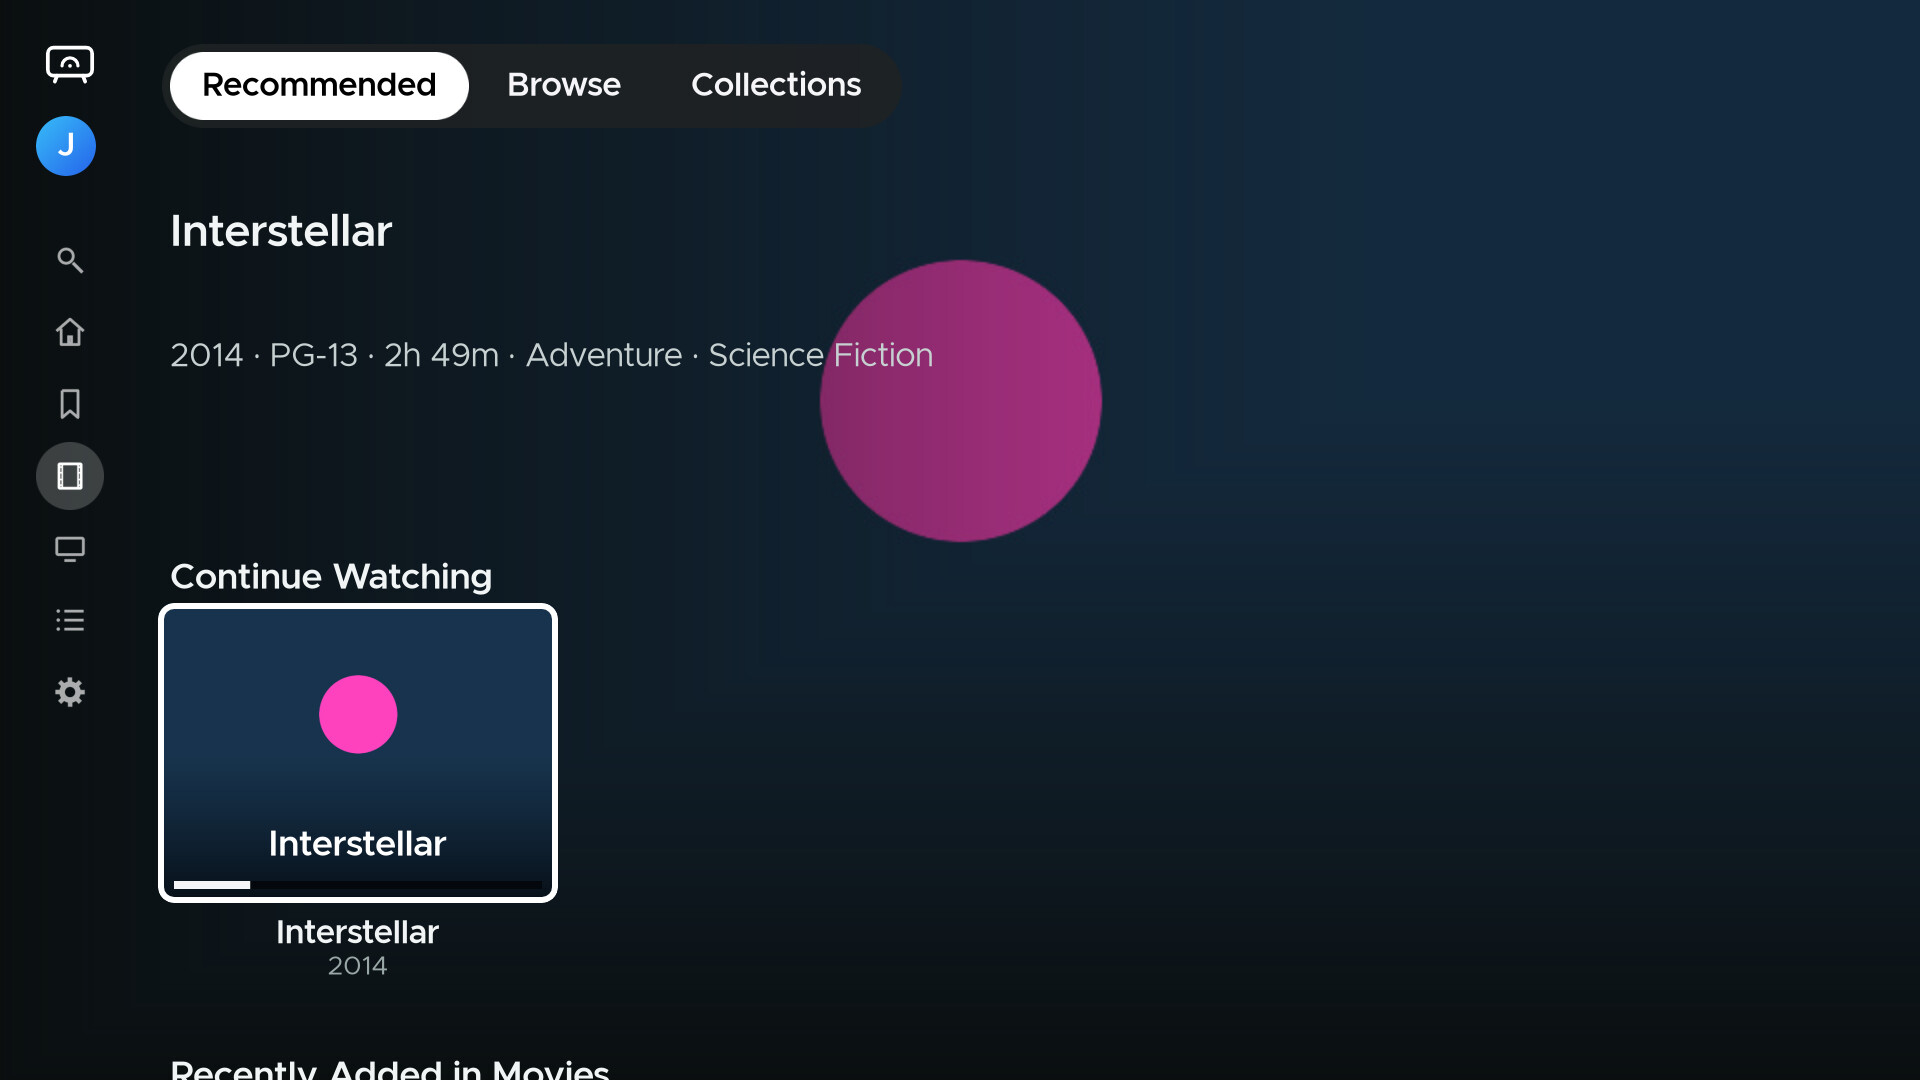
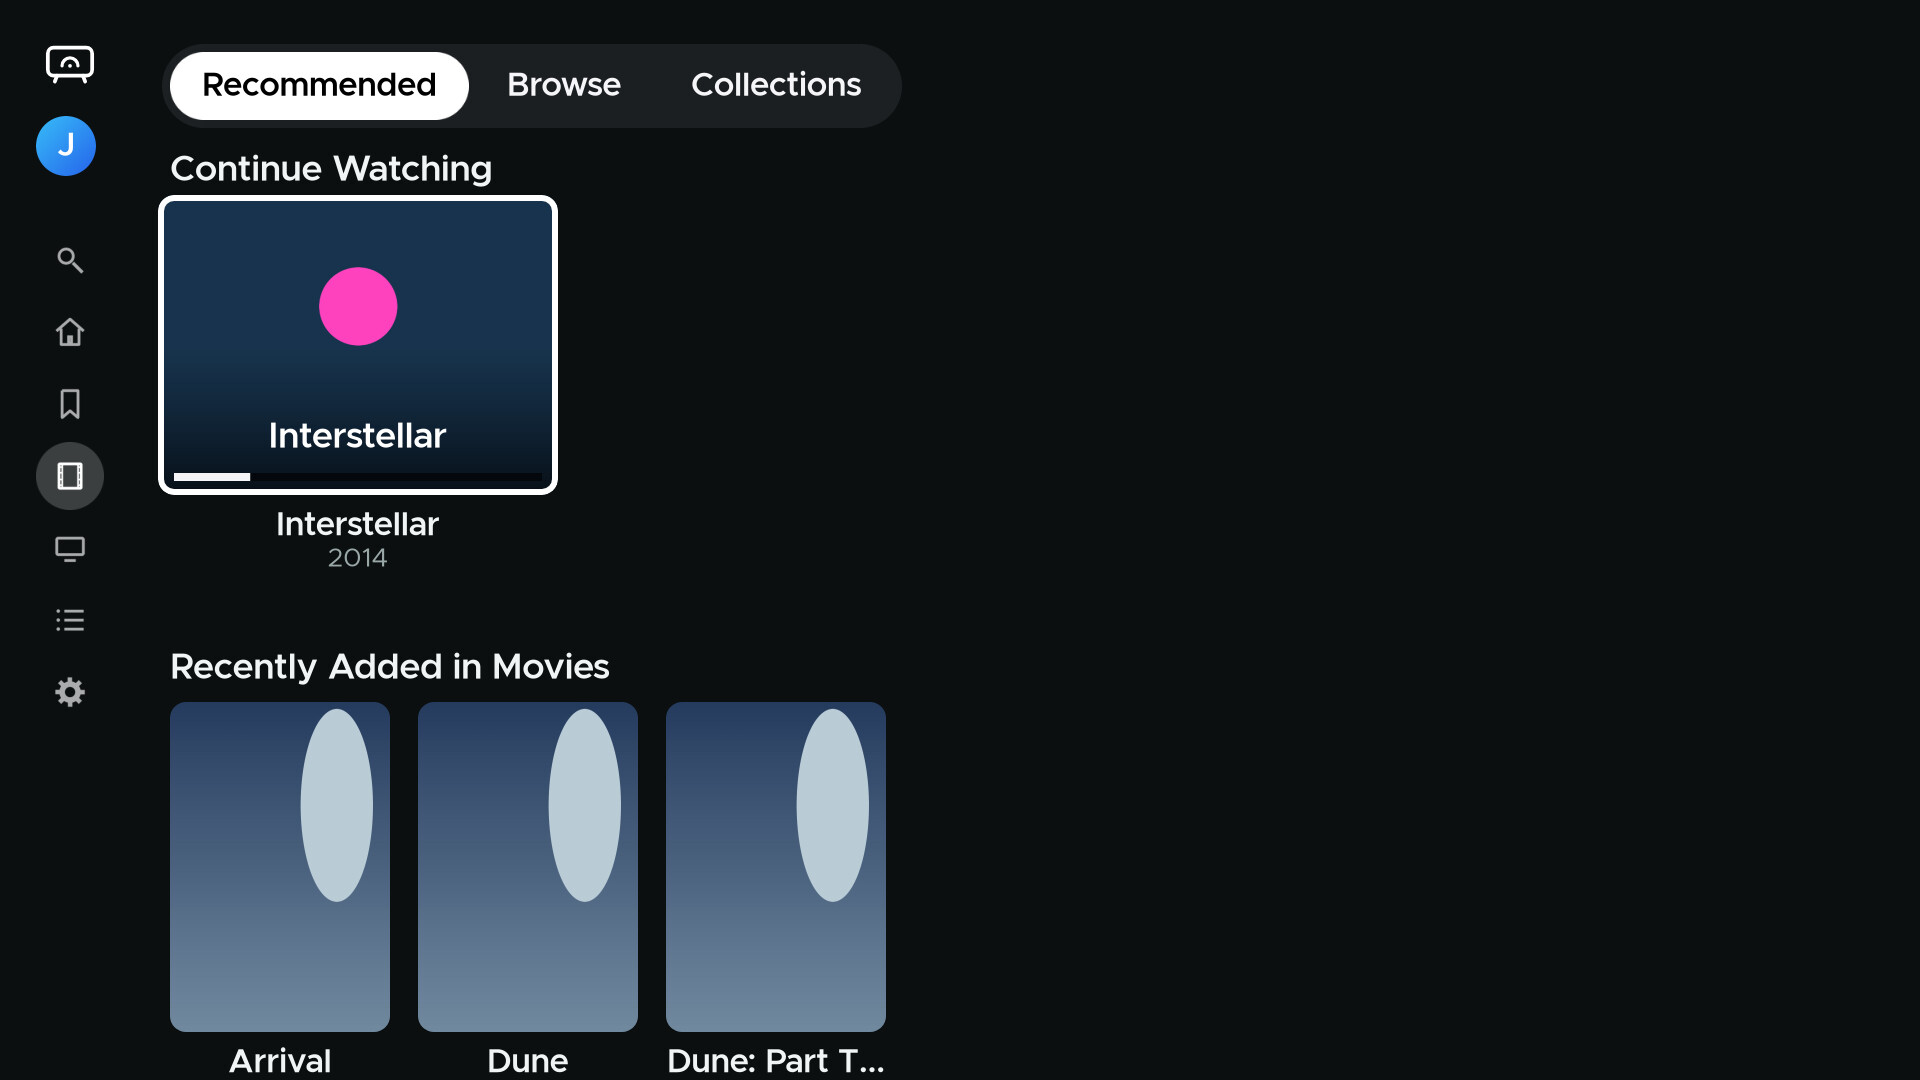
Make Roku Recommended rows-only
Start the shelves directly below the library tabs, matching Android TV, and keep the focus-following hero on Home.

diff --git a/docs/changes/2026-11-26-roku-layout-followup.md b/docs/changes/2026-11-26-roku-layout-followup.md
@@ -6,15 +6,12 @@
   the episode row. Up returns to the overview.
 - Draw the cast focus ring inside the portrait to keep the full circle inside the card slot.
 - Preserve the source aspect ratio in the 4:3 Backdrops style, with a centred crop.
-- Keep the Recommended hero on the first row. Scrolling down gives the shelves
-  the space below the library tabs, and returning to the first row restores the hero.
+- Start Recommended with its first shelf directly below the library tabs, as on Android TV.
 
 ## Decisions
 
-The season-bar peek follows Android TV and Apple TV. Android TV’s Recommended tab
-uses shelves only. Roku retains its opening hero and matches [Kodi’s first-row
-behaviour](https://github.com/arc-media-server/arc-kodi/pull/53). The existing tabs
-and remote navigation remain the way to browse the library.
+The season-bar peek follows Android TV and Apple TV. Both Roku and Kodi follow
+Android TV’s rows-only Recommended layout.
 
 ## Checks
 
